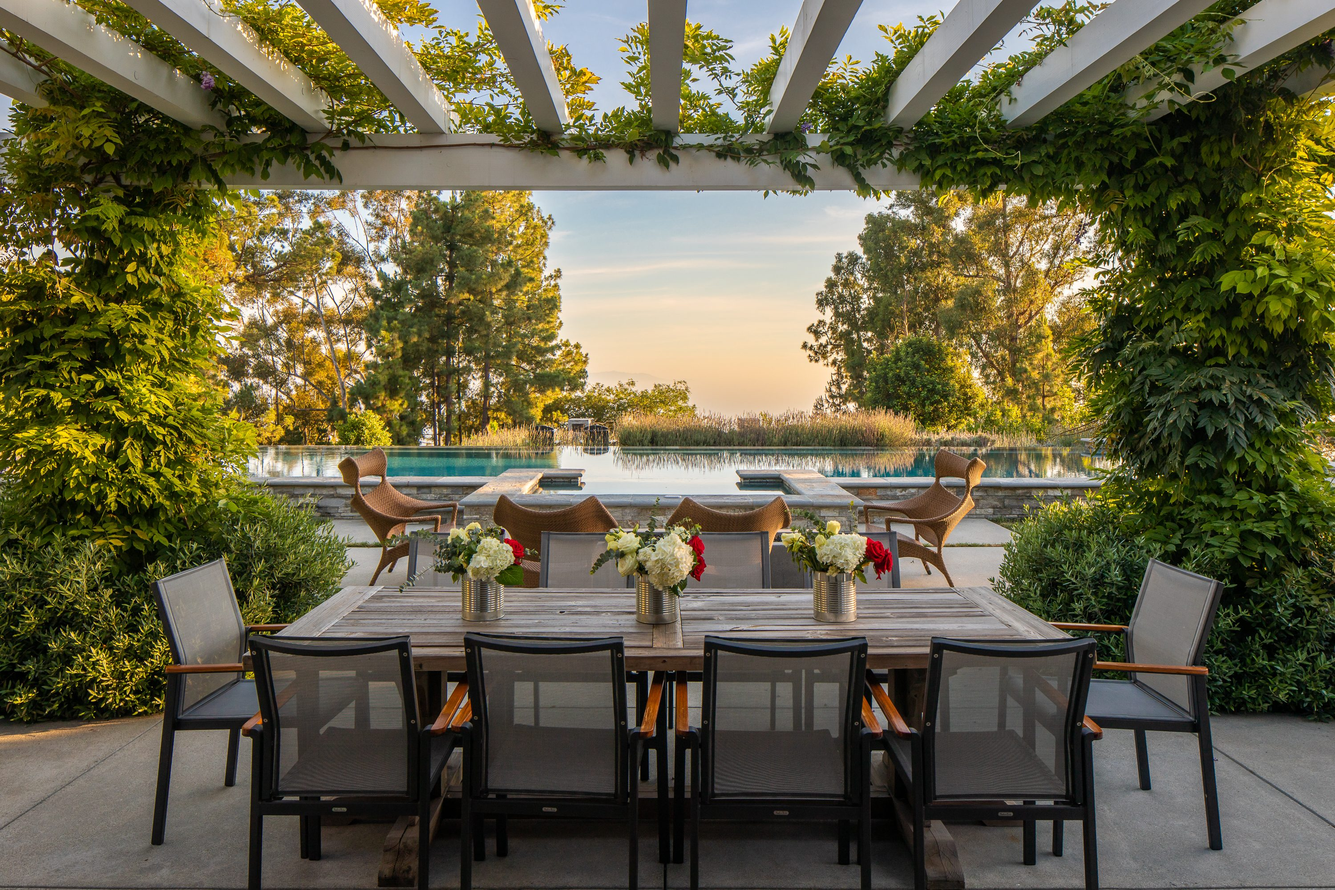
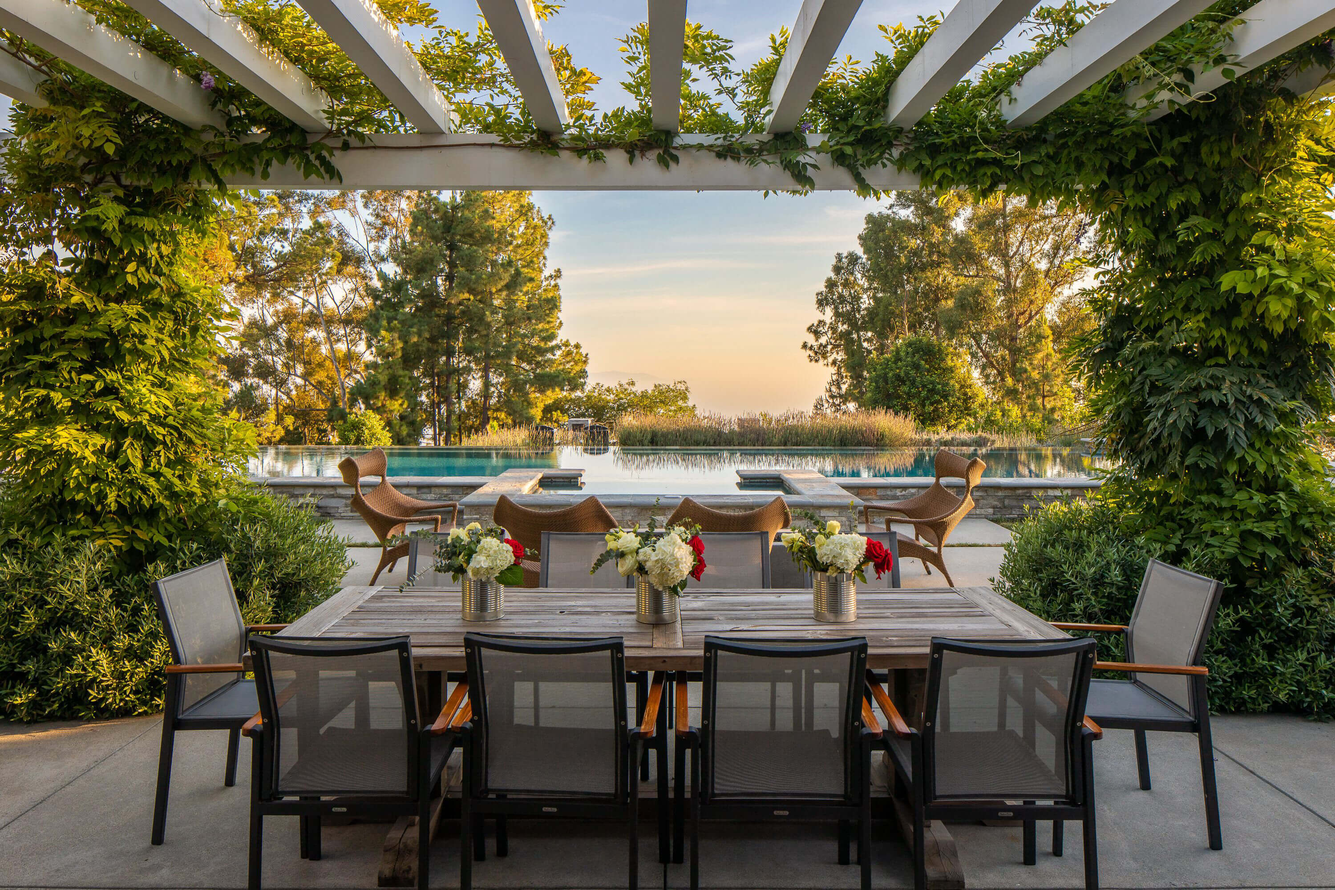
Update image references from .jpeg to .jpg

diff --git a/meet-the-team.html b/meet-the-team.html
@@ -225,7 +225,7 @@
   <!-- HERO -->
   <section class="page-hero">
     <div class="page-hero-bg">
-      <img src="Images/AdobeStock_223006447.jpeg" alt="The Davis Group" id="heroBgImg">
+      <img src="Images/AdobeStock_223006447.jpg" alt="The Davis Group" id="heroBgImg">
     </div>
     <div class="page-hero-overlay"></div>
     <div class="page-hero-fg" id="heroFg">

diff --git a/bill-davis.html b/bill-davis.html
@@ -280,7 +280,7 @@
   <!-- HERO -->
   <section class="page-hero">
     <div class="page-hero-bg">
-      <img src="Images/AdobeStock_223006447.jpeg" alt="Palos Verdes" id="heroBgImg">
+      <img src="Images/AdobeStock_223006447.jpg" alt="Palos Verdes" id="heroBgImg">
     </div>
     <div class="page-hero-overlay"></div>
     <div class="page-hero-fg" id="heroFg">

diff --git a/jennifer-sambito.html b/jennifer-sambito.html
@@ -265,7 +265,7 @@
   <!-- HERO -->
   <section class="page-hero">
     <div class="page-hero-bg">
-      <img src="Images/AdobeStock_223006447.jpeg" alt="Palos Verdes" id="heroBgImg">
+      <img src="Images/AdobeStock_223006447.jpg" alt="Palos Verdes" id="heroBgImg">
     </div>
     <div class="page-hero-overlay"></div>
     <div class="page-hero-fg" id="heroFg">

diff --git a/neighborhoods.html b/neighborhoods.html
@@ -382,7 +382,7 @@
 
   <!-- Background image layer -->
   <div class="page-hero-bg">
-    <img src="Images/AdobeStock_211065932.jpeg" alt="Palos Verdes and Beach Cities Aerial View" id="heroBgImg">
+    <img src="Images/AdobeStock_211065932.jpg" alt="Palos Verdes and Beach Cities Aerial View" id="heroBgImg">
   </div>
 
   <div class="page-hero-overlay"></div>
